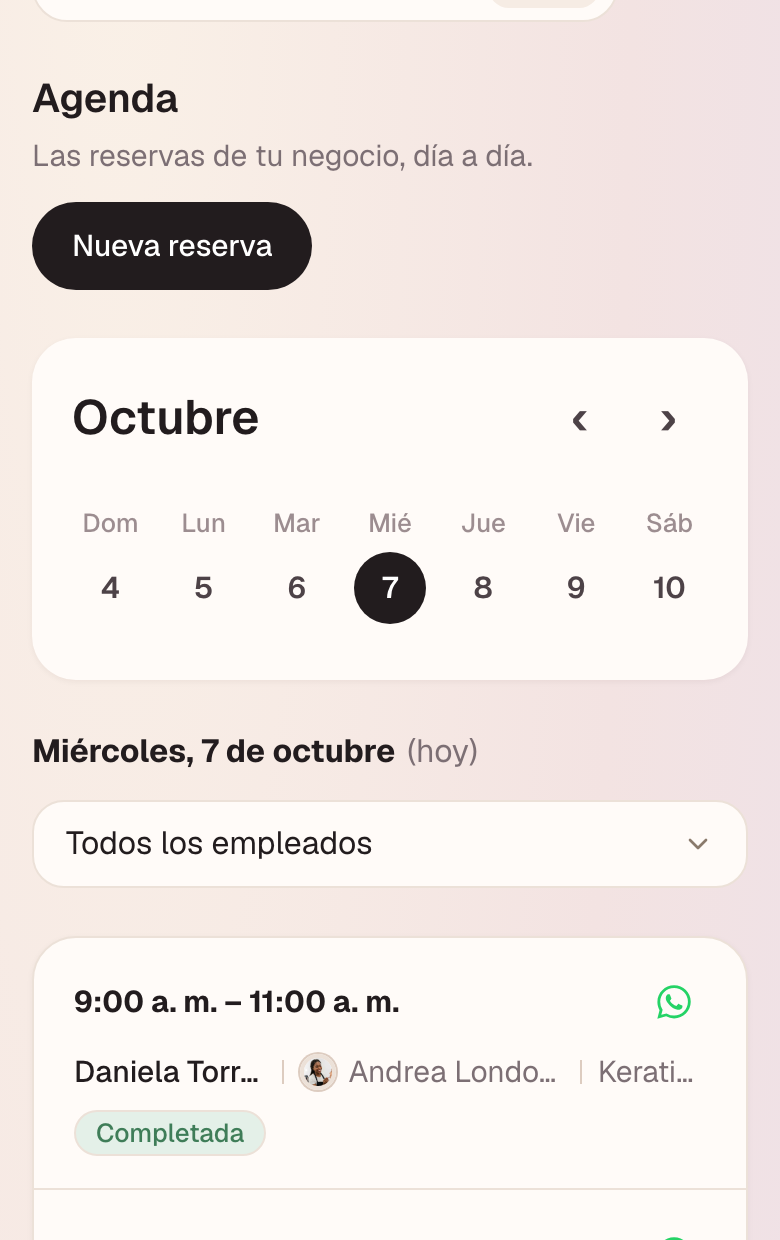
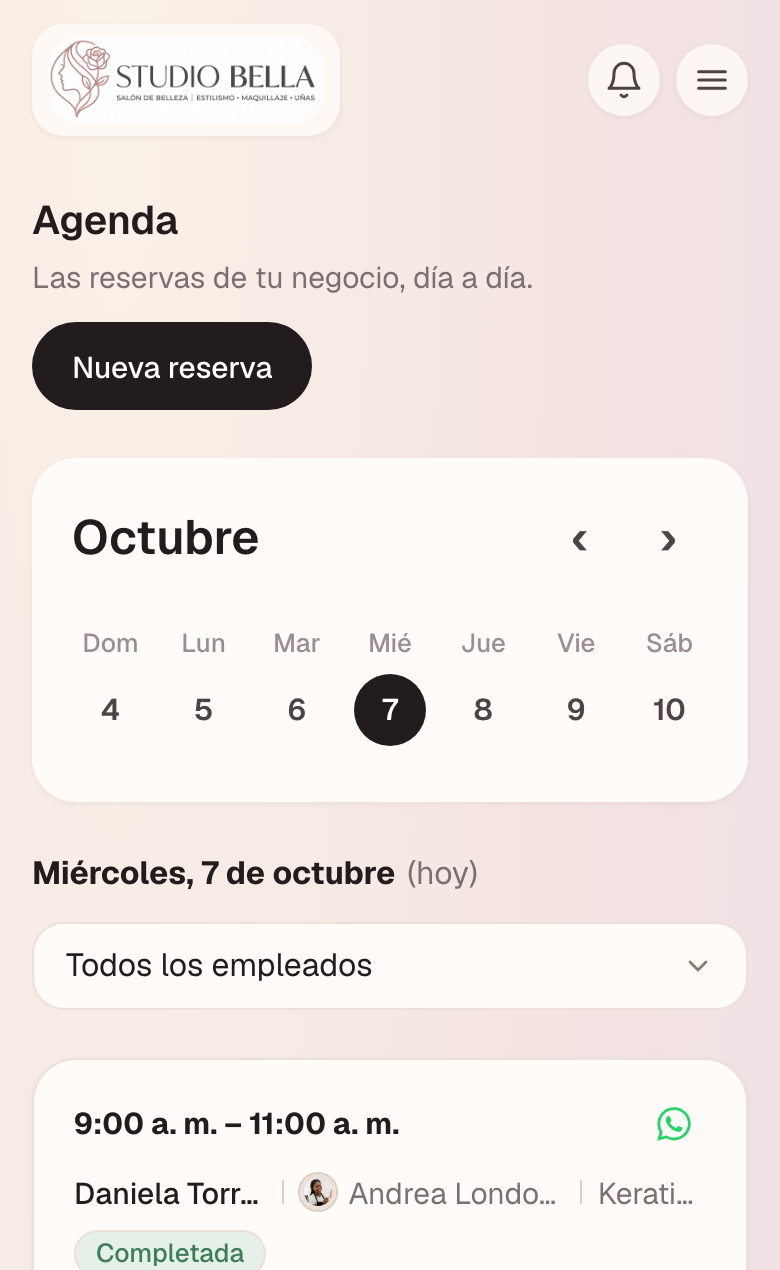
Fix landing phone mockups, drop notch, add desktop mockup, clarify dual booking
Re-captured all mobile screenshots hiding the "Copiar link" pill before
shooting, so headers no longer look shifted/cropped mid-element. Removed
the black notch decoration from the phone frame. Added a browser-window
style mockup of the desktop Agenda before "Empieza en cuatro pasos".
Swapped the employee-reports phone for the business-wide Reportes view
(richer, color-coded, more convincing for an owner). Copy now explicitly
calls out that the business itself can create reservations from the
Agenda, not only clients through the public page.

diff --git a/src/app/page.tsx b/src/app/page.tsx
@@ -10,7 +10,8 @@ const FEATURES = [
       <path d="M7 3v2M17 3v2M4 9h16M5 5h14a1 1 0 0 1 1 1v13a1 1 0 0 1-1 1H5a1 1 0 0 1-1-1V6a1 1 0 0 1 1-1Z" />
     ),
     title: "Agenda del día a día",
-    description: "Reservas organizadas por empleado, con estados que avanzan solos cuando llega y termina la hora de cada cita.",
+    description:
+      "Crea reservas tú mismo para tus clientes, o deja que ellos agenden solos — las dos entran a la misma agenda, organizada por empleado.",
   },
   {
     icon: <path d="M12 2 9.5 7l-5.5.8 4 3.9-1 5.3L12 14.5l4.9 2.5-.9-5.3 4-3.9L14.5 7 12 2Z" />,
@@ -64,10 +65,23 @@ function PhoneFrame({ src, alt, className }: { src: string; alt: string; classNa
   return (
     <div className={cn("relative mx-auto w-[220px] shrink-0 sm:w-[240px]", className)}>
       <div className="relative overflow-hidden rounded-[2.2rem] border-[6px] border-[var(--color-ink-900)] bg-[var(--color-ink-900)] shadow-[var(--shadow-md)]">
-        <div className="absolute left-1/2 top-0 z-10 h-5 w-24 -translate-x-1/2 rounded-b-xl bg-[var(--color-ink-900)]" />
         {/* eslint-disable-next-line @next/next/no-img-element -- mockups are static files in /public, not remote/optimizable content */}
         <img src={src} alt={alt} className="block aspect-[9/17.5] w-full object-cover object-top" />
       </div>
+    </div>
+  );
+}
+
+function DesktopFrame({ src, alt }: { src: string; alt: string }) {
+  return (
+    <div className="mx-auto max-w-4xl overflow-hidden rounded-[var(--radius-lg)] border-[6px] border-[var(--color-ink-900)] bg-[var(--color-ink-900)] shadow-[var(--shadow-md)]">
+      <div className="flex items-center gap-1.5 px-3 py-2">
+        <span className="h-2.5 w-2.5 rounded-full bg-white/30" />
+        <span className="h-2.5 w-2.5 rounded-full bg-white/30" />
+        <span className="h-2.5 w-2.5 rounded-full bg-white/30" />
+      </div>
+      {/* eslint-disable-next-line @next/next/no-img-element -- mockups are static files in /public, not remote/optimizable content */}
+      <img src={src} alt={alt} className="block aspect-[1440/838] w-full object-cover object-top" />
     </div>
   );
 }
@@ -160,25 +174,41 @@ export default function LandingPage() {
           <h2 style={{ fontFamily: "var(--font-display)" }} className="text-3xl font-semibold text-[var(--color-ink-900)] sm:text-4xl">
             Así se ve por dentro
           </h2>
-          <p className="mt-3 text-[var(--color-ink-700)]">La misma app, pensada para quien administra, para quien atiende y para quien reserva.</p>
+          <p className="mt-3 text-[var(--color-ink-700)]">
+            Tu negocio puede crear reservas directo desde la Agenda, y al mismo tiempo tus clientes reservan solos desde su propio link —
+            las dos vías alimentan la misma agenda.
+          </p>
         </div>
         <div className="grid gap-10 sm:grid-cols-3">
           <div className="text-center">
             <PhoneFrame src="/landing/mock-agenda.png" alt="Agenda del negocio" />
-            <h3 className="mt-5 font-semibold text-[var(--color-ink-900)]">Para el negocio</h3>
-            <p className="mt-1 text-sm text-[var(--color-ink-500)]">Agenda del día, con WhatsApp directo a cada cliente.</p>
+            <h3 className="mt-5 font-semibold text-[var(--color-ink-900)]">Agenda del negocio</h3>
+            <p className="mt-1 text-sm text-[var(--color-ink-500)]">Crea reservas tú mismo y envía el resumen por WhatsApp a cada cliente.</p>
           </div>
           <div className="text-center">
             <PhoneFrame src="/landing/mock-public.png" alt="Página pública de reservas" />
-            <h3 className="mt-5 font-semibold text-[var(--color-ink-900)]">Para el cliente</h3>
-            <p className="mt-1 text-sm text-[var(--color-ink-500)]">Reserva sola, 24/7, sin necesidad de crear una cuenta.</p>
+            <h3 className="mt-5 font-semibold text-[var(--color-ink-900)]">Reserva pública</h3>
+            <p className="mt-1 text-sm text-[var(--color-ink-500)]">Tus clientes también pueden reservar solos, 24/7, sin crear una cuenta.</p>
           </div>
           <div className="text-center">
-            <PhoneFrame src="/landing/mock-reportes.png" alt="Reportes del empleado" />
-            <h3 className="mt-5 font-semibold text-[var(--color-ink-900)]">Para el empleado</h3>
-            <p className="mt-1 text-sm text-[var(--color-ink-500)]">Sus servicios y su comisión, claros, por día, semana o mes.</p>
+            <PhoneFrame src="/landing/mock-reportes.png" alt="Reportes del negocio" />
+            <h3 className="mt-5 font-semibold text-[var(--color-ink-900)]">Reportes del negocio</h3>
+            <p className="mt-1 text-sm text-[var(--color-ink-500)]">Ingresos, comisiones y rendimiento por empleado, de un vistazo.</p>
           </div>
         </div>
+      </section>
+
+      {/* Desktop showcase */}
+      <section className="mx-auto max-w-6xl px-5 py-16 sm:px-8 md:py-24">
+        <div className="mx-auto mb-10 max-w-xl text-center">
+          <h2 style={{ fontFamily: "var(--font-display)" }} className="text-3xl font-semibold text-[var(--color-ink-900)] sm:text-4xl">
+            Y desde el computador, igual de completo
+          </h2>
+          <p className="mt-3 text-[var(--color-ink-700)]">
+            Administra la agenda de todo tu equipo, crea reservas para tus clientes y lleva el control del negocio desde cualquier pantalla.
+          </p>
+        </div>
+        <DesktopFrame src="/landing/mock-desktop-agenda.png" alt="Agenda del negocio en computador" />
       </section>
 
       {/* How it works */}
